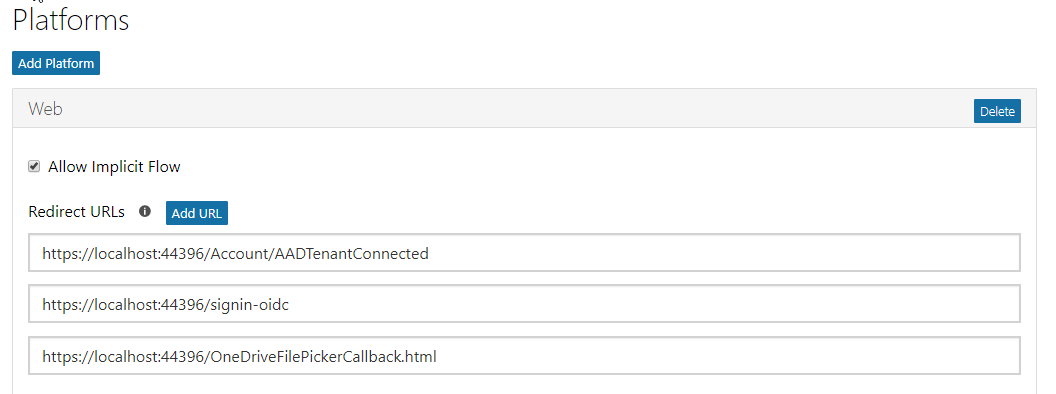
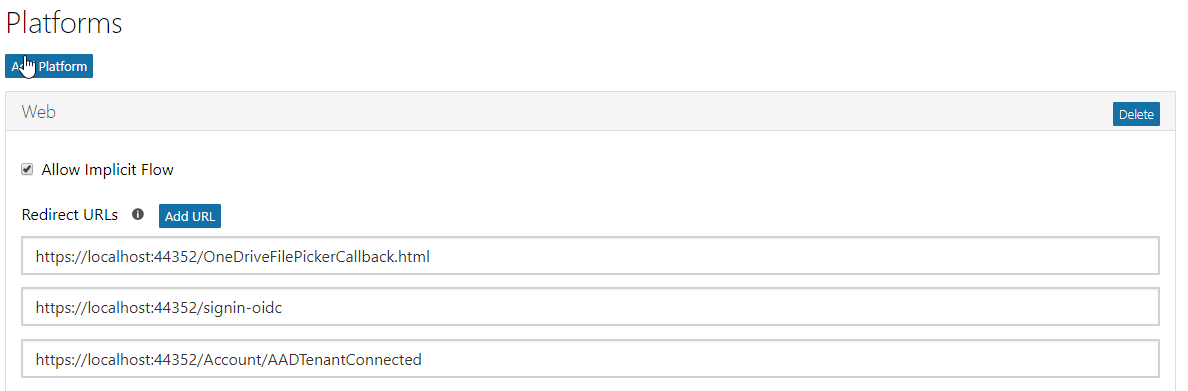
Final Cleanup
Final cleanup FY2019Q2-refresh
Spelling fixes, updated readmes for each demo.
Cleaned up config files and updated port change.

diff --git a/Demos/02-cards/README.md b/Demos/02-cards/README.md
@@ -93,6 +93,7 @@ In this step, add information about recent group activity using DocumentCards. T
     import { Icon, IconType, IIconProps } from 'office-ui-fabric-react/lib/Icon';
     import { initializeFileTypeIcons, getFileTypeIconProps, FileIconType } from '@uifabric/file-type-icons';
     import { GlobalSettings } from 'office-ui-fabric-react/lib/Utilities';
+    import Conversation = GroupList.Conversation;
     initializeFileTypeIcons();
     ```
 
@@ -129,8 +130,8 @@ In this step, add information about recent group activity using DocumentCards. T
     ```tsx
     return (
       <div>
-        <h2>{group.name}</h2>
-        { this.getMailboxActivity(group.latestConversation, group.mailboxWebUrl) }
+        <h2>{this.props.group.name}</h2>
+        { this.getMailboxActivity(this.props.group.latestConversation, this.props.group.mailboxWebUrl) }
       </div>
     );
     ```
@@ -143,7 +144,7 @@ In this step, add information about recent group activity using DocumentCards. T
 1. Return to Visual Studio. In the `GroupDetails` class, create the following method to render the most-recently updated documents in the Group library.
 
     ```tsx
-    private getLibraryActivity(driveRecentItems: DriveItem[], driveWebUrl: string): JSX.Element {
+    private getLibraryActivity(driveRecentItems: DriveItem[]): JSX.Element {
       if (driveRecentItems == null || driveRecentItems.length == 0) {
         return null;
       }
@@ -154,7 +155,8 @@ In this step, add information about recent group activity using DocumentCards. T
 
       let recentDocs: IDocumentCardPreviewProps = {
         getOverflowDocumentCountText: (overflowCount: number) => `+${overflowCount} more`,
-        previewImages: [ ]
+        previewImages: [
+        ]
       };
 
       let documentCardDocTitle: JSX.Element = null;
@@ -166,19 +168,27 @@ In this step, add information about recent group activity using DocumentCards. T
           name: doc.title,
           url: doc.webUrl,
           previewImageSrc: doc.thumbnailUrl,
-          iconSrc: globalSettings.icons[iconProps.iconName].code.props.src
+          iconSrc: globalSettings.icons[iconProps.iconName].code.props.src   // hack for file-type-icons
         };
         recentDocs.previewImages.push(previewImage);
         documentCardDocTitle = <DocumentCardTitle title={doc.title} shouldTruncate={true} />;
-      }
-      else {
+      } else {
         let docs = this.props.group.driveRecentItems;
         for (var i = 0; i < docs.length; i++) {
-          let iconProps: IIconProps = this.getIconProps((doc.fileType));
+          let iconProps: IIconProps = {};
+          switch (docs[i].fileType) {
+            case "folder":
+              iconProps = getFileTypeIconProps({ type: FileIconType.folder, size: 16 });
+              break;
+            default:
+              iconProps = getFileTypeIconProps({ extension: docs[i].fileType, size: 16 });
+              break;
+          }
+
           let previewImage: IDocumentCardPreviewImage = {
             name: docs[i].title,
             url: docs[i].webUrl,
-            iconSrc: globalSettings.icons[iconProps.iconName].code.props.src
+            iconSrc: globalSettings.icons[iconProps.iconName].code.props.src   // hack for file-type-icons
           };
           recentDocs.previewImages.push(previewImage);
         }
@@ -190,7 +200,7 @@ In this step, add information about recent group activity using DocumentCards. T
           <DocumentCardTitle title='Latest Documents' />
           <DocumentCardPreview previewImages={recentDocs.previewImages} getOverflowDocumentCountText={recentDocs.getOverflowDocumentCountText} />
           {documentCardDocTitle}
-          <DocumentCardLocation location='View Library' locationHref={driveWebUrl} />
+          <DocumentCardLocation location='View Library' locationHref={this.props.group.driveWebUrl} />
         </DocumentCard>
       );
 
@@ -199,6 +209,7 @@ In this step, add information about recent group activity using DocumentCards. T
 
     private getIconProps(fileSuffix: string): IIconProps {
       let iconProps: IIconProps = {};
+
       switch (fileSuffix) {
         case "folder":
           iconProps = getFileTypeIconProps({ type: FileIconType.folder, size: 16 });
@@ -217,23 +228,23 @@ In this step, add information about recent group activity using DocumentCards. T
     public render() {
       const group = this.props.group;
 
-      const libraryActivity: JSX.Element = this.getLibraryActivity(group.driveRecentItems, group.driveWebUrl);
-      const mailboxActivity: JSX.Element = this.getMailboxActivity(group.latestConversation, group.mailboxWebUrl);
+      const libraryActivity: JSX.Element = this.getLibraryActivity(this.props.group.driveRecentItems);
+      const mailboxActivity: JSX.Element = this.getMailboxActivity(this.props.group.latestConversation, this.props.group.mailboxWebUrl);
 
       const activity = (libraryActivity || mailboxActivity) ? (
-        <div>
-          <h2>Group Activity</h2>
-          {libraryActivity}
-          <br />
-          {mailboxActivity}
-        </div>
+          <div>
+              <h2>Group Activity</h2>
+              {libraryActivity}
+              <br />
+              {mailboxActivity}
+          </div>
       ) : (null);
 
       return (
-        <div>
-          <h2>{group.name}</h2>
-          { activity }
-        </div>
+          <div>
+              <h2>{group.name}</h2>
+              { activity }
+          </div>
       );
     }
     ```

diff --git a/Demos/01-pickers/README.md b/Demos/01-pickers/README.md
@@ -2,7 +2,7 @@
 
 In this demo, you will extend an ASP.NET Core application to use pickers provided by Office 365 services.
 
-## Register an application in Azure AD
+### Register an application in Azure AD
 
 To enable an application to call the Microsoft Graph, an application registration is required. This lab uses the [Azure Active Directory v2.0 endpoint](https://docs.microsoft.com/en-us/azure/active-directory/develop/active-directory-v2-compare).
 
@@ -19,12 +19,12 @@ To enable an application to call the Microsoft Graph, an application registratio
 
 1. On the registration page, in the **Platforms** section, select **Add Platform**.
 1. In the **Add Platform** dialog, select **Web**.
-1. Enter a **Redirect URL** to the callback page file. For this lab, use the value `https://localhost:44396/OneDriveFilePickerCallback.html`
+1. Enter a **Redirect URL** to the callback page file. For this lab, use the value `https://localhost:44352/OneDriveFilePickerCallback.html`
 
 1. Select the **Add URL** button.
-1. Enter a **Redirect URL** for the implicit flow callback. For this lab, use the value `https://localhost:44396/signin-oidc`
+1. Enter a **Redirect URL** for the implicit flow callback. For this lab, use the value `https://localhost:44352/signin-oidc`
 1. Select the **Add URL** button again.
-1. Enter a **Redirect URL** for the admin consent callback. For this lab, use the value `https://localhost:44396/Account/AADTenantConnected`
+1. Enter a **Redirect URL** for the admin consent callback. For this lab, use the value `https://localhost:44352/Account/AADTenantConnected`
 
     ![Screenshot of Platform section of the Application Registration Portal page](../../images/Exercise1-03.png)
 
@@ -56,6 +56,11 @@ To enable an application to call the Microsoft Graph, an application registratio
     "TenantId": "[your-tenant-id]",
     "ClientId": "[your-client-id]",
     "ClientSecret": "[your-client-secret]",
+    ```
+1. Verify in the project properties, debug settings that SSL is enabled and that the url matches the one that you entered as part of the redirect url in the app registration. The url should also match the BaseUrl specified in the `appSettings.json` file.
+
+    ```json
+    "BaseUrl": "https://localhost:44352"
     ```
 
 ### Provide administrative consent to application
@@ -90,7 +95,7 @@ The File picker requires a control for the user to invoke the picker, and a call
 
 1. Save and close the file.
 1. Open the file `Views\Picker\Index.cshtml`
-1. Notice that line 12 contains a button with a JavaScript handler for the select event.
+1. Notice that line 16 contains a button with a JavaScript handler for the select event.
 1. At the bottom of the page, approx line 33, is a Razor section named **scripts**. Add the following tag inside the **scripts** section to load the File picker control.
 
     ```javascript
@@ -157,13 +162,13 @@ Office UI Fabric provides a People Picker component written in React. For detail
 1. Select the **TypeScript JSX File** template. Name file `PeoplePicker.tsx`.
 1. Replace the contents of the template with the code from the file `LabFiles\Pickers\PeoplePicker.tsx`.
 1. Open the file `Views\Picker\Index.cshtml`
-1. Notice that line 25 contains a div with the id `react-peoplePicker`. This is the location in the page in which the control will be rendered.
+1. Notice that line 29 contains a div with the id `react-peoplePicker`. This is the location in the page in which the control will be rendered.
 1. Inside the **scripts** section, add the following line right before the `</script>` tag:
 
     ```javascript
     App.RenderPeoplePicker();
     ```
-1. The `RenderPeoplePicker` method is defined in the `boot.tsx` file. Add the following code to that method:
+1. The `RenderPeoplePicker` method is defined in the `Components\boot.tsx` file. Un-comment the import statement at the top of the file for the PeoplePicker and add the following code to that method:
 
     ```javascript
     ReactDOM.render(
@@ -175,3 +180,4 @@ Office UI Fabric provides a People Picker component written in React. For detail
     >Note: The webpack configuration specifies that the TypeScript in the project is injected into pages as a library object named `App`.
 
     ![Screenshot of Picker page with People Picker control](../../images/Exercise1-08.png)
+

diff --git a/Lab.md b/Lab.md
@@ -67,12 +67,12 @@ To enable an application to call the Microsoft Graph, an application registratio
 
 1. On the registration page, in the **Platforms** section, select **Add Platform**.
 1. In the **Add Platform** dialog, select **Web**.
-1. Enter a **Redirect URL** to the callback page file. For this lab, use the value `https://localhost:44396/OneDriveFilePickerCallback.html`
+1. Enter a **Redirect URL** to the callback page file. For this lab, use the value `https://localhost:44352/OneDriveFilePickerCallback.html`
 
 1. Select the **Add URL** button.
-1. Enter a **Redirect URL** for the implicit flow callback. For this lab, use the value `https://localhost:44396/signin-oidc`
+1. Enter a **Redirect URL** for the implicit flow callback. For this lab, use the value `https://localhost:44352/signin-oidc`
 1. Select the **Add URL** button again.
-1. Enter a **Redirect URL** for the admin consent callback. For this lab, use the value `https://localhost:44396/Account/AADTenantConnected`
+1. Enter a **Redirect URL** for the admin consent callback. For this lab, use the value `https://localhost:44352/Account/AADTenantConnected`
 
     ![Screenshot of Platform section of the Application Registration Portal page](./images/Exercise1-03.png)
 
@@ -105,7 +105,7 @@ To enable an application to call the Microsoft Graph, an application registratio
     "ClientId": "[your-client-id]",
     "ClientSecret": "[your-client-secret]",
     ```
-1. Verify in the project properties, debug settings that SSL is enabled and that the url matches the one that you entered as part of the redirect url in the app registration. The url should also match the BaseUrl specified in teh `appSettings.json` file.
+1. Verify in the project properties, debug settings that SSL is enabled and that the url matches the one that you entered as part of the redirect url in the app registration. The url should also match the BaseUrl specified in the `appSettings.json` file.
 
     ```json
     "BaseUrl": "https://localhost:44352"
